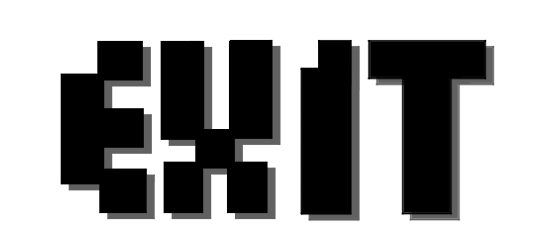
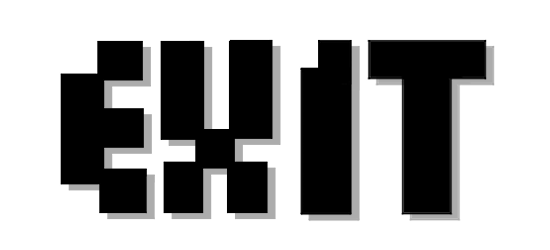
update mainmenu & lower exit shadow

diff --git a/gameover.c b/gameover.c
@@ -46,9 +46,9 @@ void gameover_init(void)
 
 	CP_Color rectColour = CP_Color_Create(215, 196, 130, 255);
 	CP_Settings_Fill(rectColour);
-	CP_Graphics_DrawRect(b1.x, b1.y, b1.width, b1.height);
-	CP_Graphics_DrawRect(b2.x, b2.y, b2.width, b2.height);
-	CP_Graphics_DrawRect(b3.x, b3.y, b3.width, b3.height);
+	//CP_Graphics_DrawRect(b1.x, b1.y, b1.width, b1.height);
+	//CP_Graphics_DrawRect(b2.x, b2.y, b2.width, b2.height);
+	//CP_Graphics_DrawRect(b3.x, b3.y, b3.width, b3.height);
 
 	CP_Image mainmenu = CP_Image_Load("./Assets/MainMenu.png");
 	CP_Image_Draw(mainmenu, b1.x + 200, b1.y + 70, b1.width, b1.height, 255);
